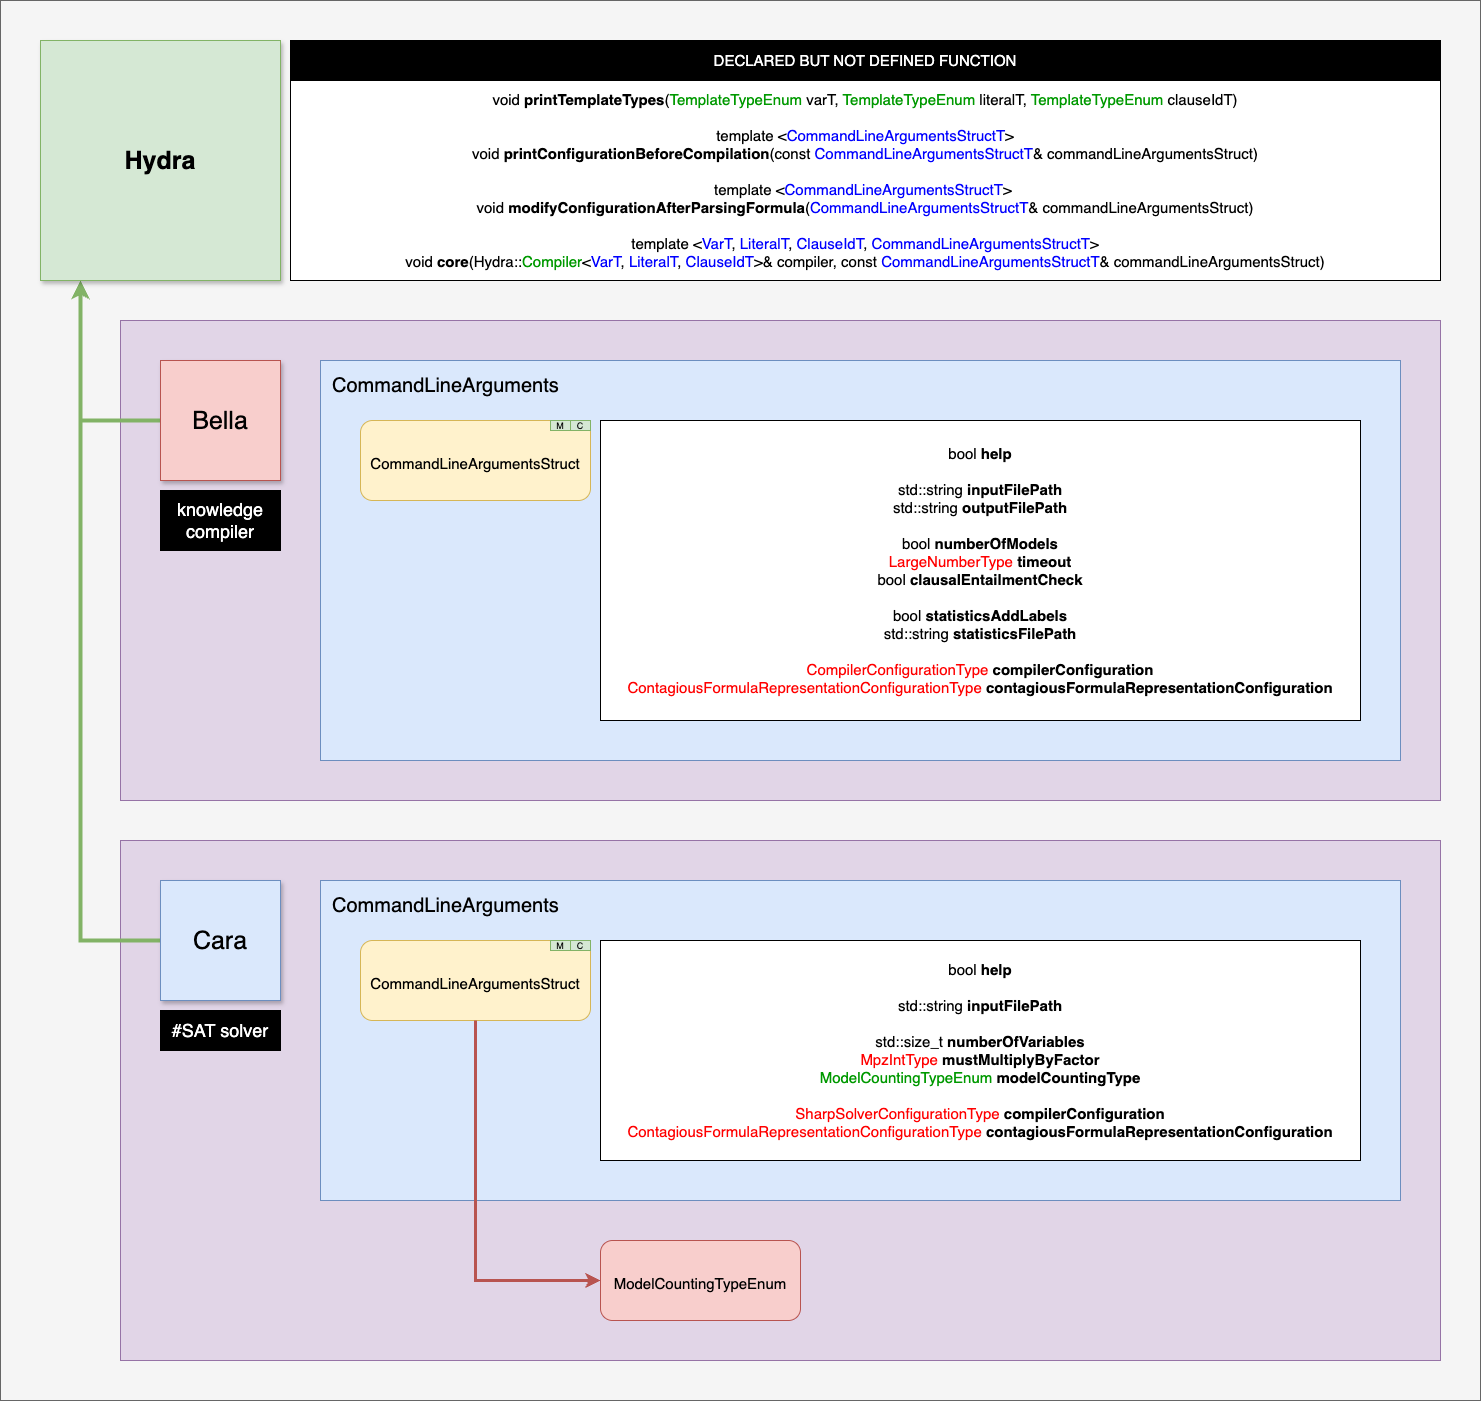
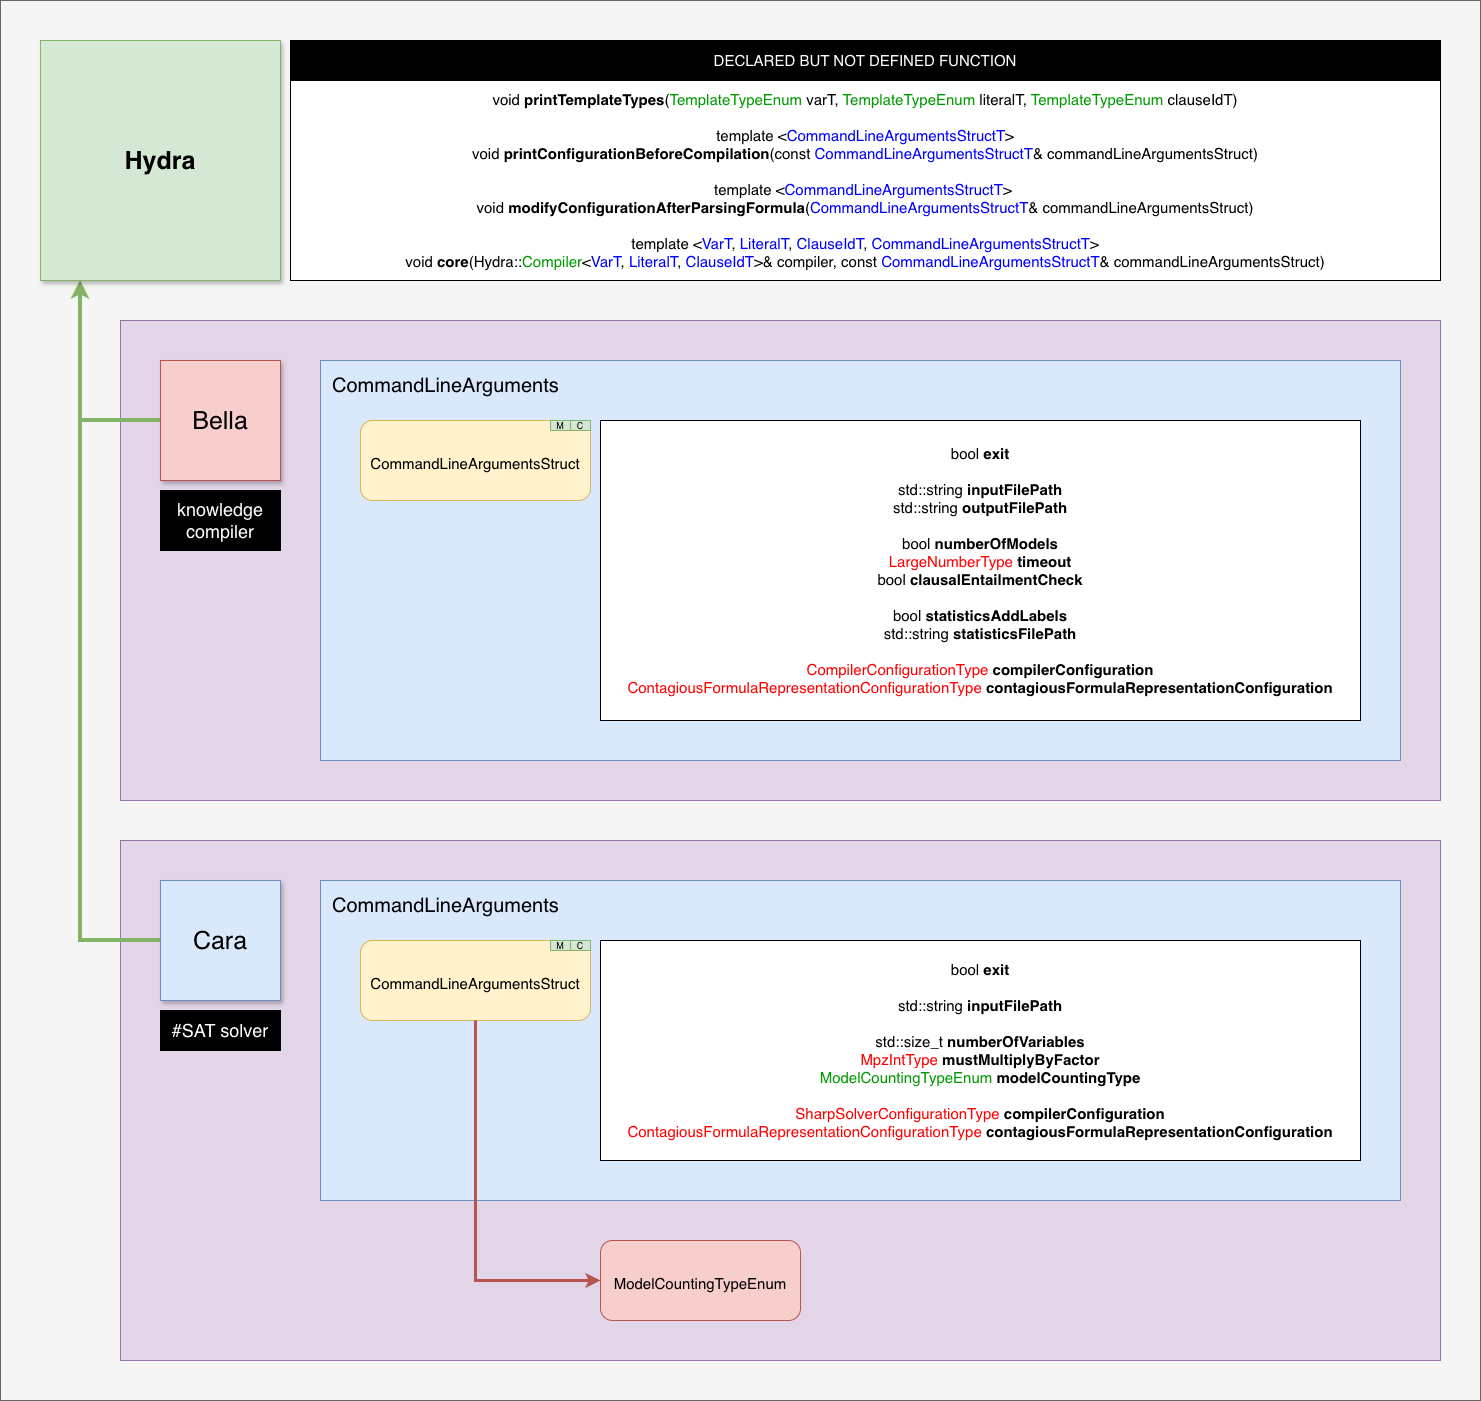
Add version

diff --git a/Cara/commandLineArguments/CommandLineArguments.cpp b/Cara/commandLineArguments/CommandLineArguments.cpp
@@ -30,14 +30,27 @@ namespace Cara::CommandLineArguments {
         // Help
         if (Hydra::Other::Parser::CommandLineArguments::argumentExists(arguments, HELP_ARGUMENT)) {
             // program -h
-            if (argc > 2) {
-                std::cerr << "WARNING: only the argument \"-h\" is considered; the remaining arguments are ignored!" << std::endl;
-                std::cerr << std::endl;
-            }
+            if (argc > 2)
+                Hydra::Other::printWarningAboutIgnoringRemainingArgumentsExceptOne(HELP_ARGUMENT);
 
-            commandLineArgumentsStruct.help = true;
+            commandLineArgumentsStruct.exit = true;
 
             printHelp();
+
+            return commandLineArgumentsStruct;
+        }
+
+        // Version
+        if (Hydra::Other::Parser::CommandLineArguments::argumentExists(arguments, VERSION_ARGUMENT)) {
+            // program -v
+            if (argc > 2)
+                Hydra::Other::printWarningAboutIgnoringRemainingArgumentsExceptOne(VERSION_ARGUMENT);
+
+            commandLineArgumentsStruct.exit = true;
+
+            std::cout << "Cara (";
+            Hydra::Other::Version::printHydraVersion(std::cout);
+            std::cout << ")" << std::endl;
 
             return commandLineArgumentsStruct;
         }
@@ -243,6 +256,7 @@ namespace Cara::CommandLineArguments {
                   << std::endl;
 
         // Command
+        std::cout << "./Cara " << VERSION_ARGUMENT << std::endl;
         std::cout << "./Cara";
 
         // Partitioning hypergraph types
@@ -277,6 +291,7 @@ namespace Cara::CommandLineArguments {
         std::cout << "\t" << NOT_SUBSUMED_CLAUSES_PREPROCESSING_TYPE_ARGUMENT << " — " << Hydra::Cache::CachingScheme::preprocessingTypeEnumToString(Hydra::Cache::CachingScheme::PreprocessingTypeEnum::NOT_SUBSUMED_CLAUSES) << std::endl;
         std::cout << std::endl;
 
+        std::cout << VERSION_ARGUMENT << " — print version information" << std::endl;
         std::cout << NUMBER_OF_SAMPLE_MOMENTS_ARGUMENT << " — sets the number of sample moments (min: " << std::to_string(Hydra::Cache::CachingScheme::Cara::CaraCachingSchemeConfiguration::S_NUMBER_OF_SAMPLE_MOMENTS_MINIMUM) << ", max: " << std::to_string(Hydra::Cache::CachingScheme::Cara::CaraCachingSchemeConfiguration::S_NUMBER_OF_SAMPLE_MOMENTS_MAXIMUM) << ")" << std::endl;
         std::cout << MUST_MULTIPLY_BY_FACTOR_ARGUMENT << " — multiplies the model count by this factor (for example, Arjun's \"MUST MULTIPLY BY\" factor) (default: 1)" << std::endl;
         std::cout << std::endl;

diff --git a/Bella/commandLineArguments/CommandLineArguments.cpp b/Bella/commandLineArguments/CommandLineArguments.cpp
@@ -36,14 +36,27 @@ namespace Bella::CommandLineArguments {
         // Help
         if (Hydra::Other::Parser::CommandLineArguments::argumentExists(arguments, HELP_ARGUMENT)) {
             // program -h
-            if (argc > 2) {
-                std::cerr << "WARNING: only the argument \"-h\" is considered; the remaining arguments are ignored!" << std::endl;
-                std::cerr << std::endl;
-            }
+            if (argc > 2)
+                Hydra::Other::printWarningAboutIgnoringRemainingArgumentsExceptOne(HELP_ARGUMENT);
 
-            commandLineArgumentsStruct.help = true;
+            commandLineArgumentsStruct.exit = true;
 
             printHelp();
+
+            return commandLineArgumentsStruct;
+        }
+
+        // Version
+        if (Hydra::Other::Parser::CommandLineArguments::argumentExists(arguments, VERSION_ARGUMENT)) {
+            // program -v
+            if (argc > 2)
+                Hydra::Other::printWarningAboutIgnoringRemainingArgumentsExceptOne(VERSION_ARGUMENT);
+
+            commandLineArgumentsStruct.exit = true;
+
+            std::cout << "Bella (";
+            Hydra::Other::Version::printHydraVersion(std::cout);
+            std::cout << ")" << std::endl;
 
             return commandLineArgumentsStruct;
         }
@@ -748,6 +761,7 @@ namespace Bella::CommandLineArguments {
                   << std::endl;
 
         // Command
+        std::cout << "./Bella " << VERSION_ARGUMENT << std::endl;
         std::cout << "./Bella";
         // Circuit types
         std::cout << " < "
@@ -888,6 +902,7 @@ namespace Bella::CommandLineArguments {
         std::cout << std::endl;
 
         std::cout << COUNT_ARGUMENT << " — counts the models" << std::endl;
+        std::cout << VERSION_ARGUMENT << " — print version information" << std::endl;
         std::cout << EQUIVALENCE_SIMPLIFICATION_METHOD_ARGUMENT << " — uses the equivalence simplification method (highly recommended)" << std::endl;
         std::cout << TIMEOUT_ARGUMENT << " — sets the compilation timeout (default: 86400 s)" << std::endl;
         std::cout << READABLE_STATISTICS_ARGUMENT << " — the statistics file is in a form readable by a human" << std::endl;

diff --git a/Hydra/other/Other.hpp b/Hydra/other/Other.hpp
@@ -12,6 +12,7 @@
 #include <vector>
 
 #include "Hydra/other/hashMap/HashMap.hpp"
+#include "Hydra/other/parser/CommandLineArgumentsParser.hpp"
 #include "Hydra/other/std/Std.hpp"
 
 #include "Hydra/compiler/exceptions/CompilerException.hpp"
@@ -179,6 +180,12 @@ namespace Hydra::Other {
      * @param adjustedValue an adjusted value
      */
     inline void printWarningAboutAdjustedConfiguration(const std::string& name, const std::string& adjustedValue);
+
+    /**
+     * Print a warning about ignoring the remaining arguments except for notIgnoredArgumentName
+     * @param notIgnoredArgumentName the only argument which is not ignored (for example, help, version)
+     */
+    inline void printWarningAboutIgnoringRemainingArgumentsExceptOne(const Parser::CommandLineArguments::ArgumentNameType& notIgnoredArgumentName);
 
     /**
      * prefix --------------------

diff --git a/Bella/commandLineArguments/CommandLineArguments.hpp b/Bella/commandLineArguments/CommandLineArguments.hpp
@@ -1,7 +1,9 @@
 #pragma once
 
 #include "Bella/commandLineArguments/CommandLineArgumentsStructure.hpp"
+#include "Hydra/other/Other.hpp"
 #include "Hydra/other/parser/CommandLineArgumentsParser.hpp"
+#include "Hydra/other/version/Version.hpp"
 
 #include "Hydra/compiler/Compiler.tpp"
 
@@ -89,6 +91,7 @@ namespace Bella::CommandLineArguments {
     inline constexpr ArgumentNameType HELP_ARGUMENT = "-h";
     inline constexpr ArgumentNameType COUNT_ARGUMENT = "-c";
     inline constexpr ArgumentNameType TIMEOUT_ARGUMENT = "-t";
+    inline constexpr ArgumentNameType VERSION_ARGUMENT = "-v";
     inline constexpr ArgumentNameType METACENTRUM_ARGUMENT = "-m";
     inline constexpr ArgumentNameType READABLE_STATISTICS_ARGUMENT = "-r";
     inline constexpr ArgumentNameType EQUIVALENCE_SIMPLIFICATION_METHOD_ARGUMENT = "-e";

diff --git a/Hydra/other/version/Version.hpp b/Hydra/other/version/Version.hpp
@@ -1,0 +1,32 @@
+#pragma once
+
+#include <ostream>
+#include <string_view>
+
+namespace Hydra::Other::Version {
+
+    /**
+     * @return the Hydra version
+     */
+    std::string_view getHydraVersion() noexcept;
+
+    /**
+     * @return the Hydra version - major
+     */
+    std::string_view getHydraVersionMajor() noexcept;
+
+    /**
+     * @return the Hydra version - minor
+     */
+    std::string_view getHydraVersionMinor() noexcept;
+
+    /**
+     * @return the Hydra version - patch
+     */
+    std::string_view getHydraVersionPatch() noexcept;
+
+    /**
+     * Print the Hydra version
+     */
+    void printHydraVersion(std::ostream& out);
+}   // namespace Hydra::Other::Version

diff --git a/Cara/commandLineArguments/CommandLineArguments.hpp b/Cara/commandLineArguments/CommandLineArguments.hpp
@@ -3,7 +3,9 @@
 #include <string_view>
 
 #include "Cara/commandLineArguments/CommandLineArgumentsStructure.hpp"
+#include "Hydra/other/Other.hpp"
 #include "Hydra/other/parser/CommandLineArgumentsParser.hpp"
+#include "Hydra/other/version/Version.hpp"
 
 #include "Hydra/compiler/Compiler.tpp"
 
@@ -31,6 +33,7 @@ namespace Cara::CommandLineArguments {
 
     // Others
     inline constexpr ArgumentNameType HELP_ARGUMENT = "-h";
+    inline constexpr ArgumentNameType VERSION_ARGUMENT = "-v";
     inline constexpr ArgumentNameType MUST_MULTIPLY_BY_FACTOR_ARGUMENT = "-mmbf";
     inline constexpr ArgumentNameType NUMBER_OF_SAMPLE_MOMENTS_ARGUMENT = "-nsm";
 

diff --git a/Hydra/other/version/Version.cpp b/Hydra/other/version/Version.cpp
@@ -1,0 +1,24 @@
+#include "./Version.hpp"
+
+namespace Hydra::Other::Version {
+
+    std::string_view getHydraVersion() noexcept {
+        return HYDRA_VERSION;
+    }
+
+    std::string_view getHydraVersionMajor() noexcept {
+        return HYDRA_VERSION_MAJOR;
+    }
+
+    std::string_view getHydraVersionMinor() noexcept {
+        return HYDRA_VERSION_MINOR;
+    }
+
+    std::string_view getHydraVersionPatch() noexcept {
+        return HYDRA_VERSION_PATCH;
+    }
+
+    void printHydraVersion(std::ostream& out) {
+        out << "Hydra v" << getHydraVersion();
+    }
+}   // namespace Hydra::Other::Version

diff --git a/Bella/Bella.hpp b/Bella/Bella.hpp
@@ -23,8 +23,8 @@ int main(int argc, char* argv[]) {
     try {
         CommandLineArgumentsStruct commandLineArgumentsStruct = Bella::CommandLineArguments::parseCommandLineArguments(argc, argv);
 
-        // Help
-        if (commandLineArgumentsStruct.help)
+        // Exit - help, version
+        if (commandLineArgumentsStruct.exit)
             return 0;
 
         // Title

diff --git a/Cara/Cara.hpp b/Cara/Cara.hpp
@@ -33,8 +33,8 @@ int main(int argc, char* argv[]) {
     try {
         CommandLineArgumentsStruct commandLineArgumentsStruct = Cara::CommandLineArguments::parseCommandLineArguments(argc, argv);
 
-        // Help
-        if (commandLineArgumentsStruct.help)
+        // Exit - help, version
+        if (commandLineArgumentsStruct.exit)
             return 0;
 
         // Title

diff --git a/Bella/commandLineArguments/CommandLineArgumentsStructure.hpp b/Bella/commandLineArguments/CommandLineArgumentsStructure.hpp
@@ -21,7 +21,7 @@ namespace Bella::CommandLineArguments {
         using ContagiousFormulaRepresentationConfigurationType = typename Hydra::Formula::Representation::Contagious::ContagiousFormulaRepresentationConfiguration;
 
     public:
-        bool help = false;
+        bool exit = false;   // help, version
 
         bool numberOfModels;
         LargeNumberType timeout;

diff --git a/Cara/commandLineArguments/CommandLineArgumentsStructure.hpp b/Cara/commandLineArguments/CommandLineArgumentsStructure.hpp
@@ -26,7 +26,7 @@ namespace Cara::CommandLineArguments {
         using ModelCountingTypeEnum = typename Cara::ModelCountingTypeEnum;
 
     public:
-        bool help = false;
+        bool exit = false;   // help, version
 
         // Input
         std::string inputFilePath;
